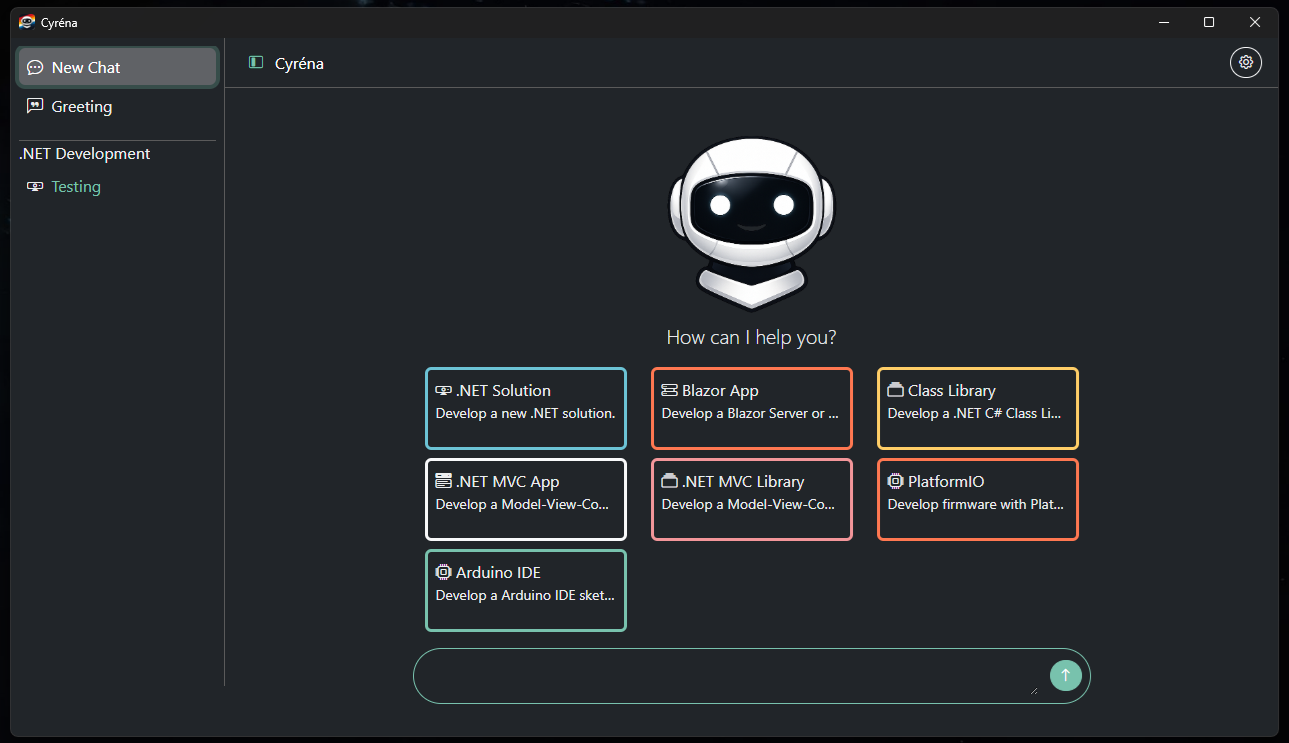
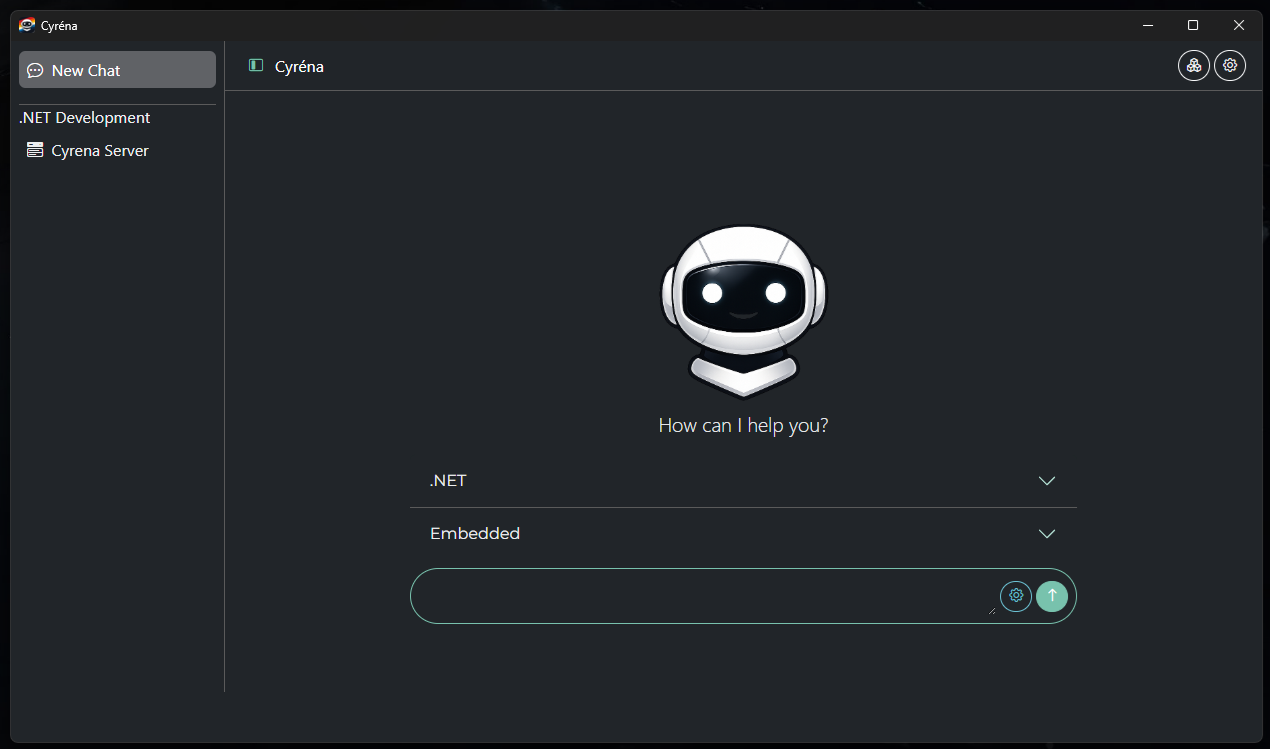
Updated readme

diff --git a/readme.md b/readme.md
@@ -1,6 +1,6 @@
 # Cyréna
 
-Cyréna is an experimental **offline-first engineering assistant** that runs *alongside your IDE*, not inside it.
+Cyréna is an **offline-first engineering assistant** that runs *alongside your IDE*, not inside it.
 
 It operates as a structured agent inside real projects and helps with:
 
@@ -12,26 +12,23 @@ It operates as a structured agent inside real projects and helps with:
 
 This project started as a personal experiment to build the assistant I wanted for my own workflow.
 
-It is evolving into something larger.
-
-⚠ **Please read this README in full before using Cyréna.**  
-It contains important safety notes.
+It has since become a core part of daily engineering — and is now evolving into something much larger.
 
 - 📸 [Screenshots](./docs/screenshots.md)
 - 🧠 [Architecture Overview](./docs/code_overview.md)
 - 🤝 [Contributing](./contributing.md)
-- 👉 [Getting Started Video](https://streamable.com/t4v75s)
+- 👉 [Getting Started Video](https://cyrena.dev/videos#getting_started)
 - 📸 [UI Overview](./docs/ui_overview.md)
 
 ---
 
 ## 🎬 Demo
 
-Here is Cyréna running a real prompt → build → repair loop:
+Here is Cyréna HUD running a real prompt → build → repair loop:
 
-👉 [Demo video](https://streamable.com/xet2ig)
+👉 [Demo video](https://cyrena.dev/videos#hud_working)
 
-This is not code generation —  
+This is not code generation —
 this is an engineering agent working inside a project.
 
 ---
@@ -53,24 +50,36 @@ The goal is predictable AI behavior inside real codebases.
 
 ---
 
+## 🧩 Extensions
+
+Cyréna is built on an **extension architecture**, making it a platform rather than a fixed tool.
+
+Extensions allow Cyréna to be tailored beyond software development — adapting to different domains, workflows, and use cases. If your workflow doesn't fit the defaults, you can build an extension that does.
+
+- **Developers** can build their own extensions to improve and personalise their workflow
+- **Non-developers** can benefit from extensions built for their domain
+- Extensions are first-class — the built-in domain support (see below) is itself implemented as extensions
+
+This is an open system. If you build something useful, contributions are welcome.
+
+---
+
 ## 🌍 Multi-Domain Support
 
-Cyréna is designed as a **platform**, not a single-language tool.
-
-Currently supported:
+Cyréna ships with built-in support for several development domains:
 
 - 📦 .NET
-	- C# Class Library
-	- Blazor App
-	- C# MVC App
-	- C# MVC Library *note*: It follows the structure of MVC App
+  - C# Class Library
+  - Blazor App
+  - C# MVC App
+  - C# MVC Library *(follows MVC App structure)*
 - 🔌 Arduino IDE firmware projects
 - 🔌 PlatformIO firmware projects
-	- Arduino & ESPIDF
+  - Arduino & ESPIDF
 
 Each domain has its own constraints and prompts, but shares the same core architecture.
 
-This proves the system is extensible.
+New domains can be added through extensions.
 
 ---
 
@@ -102,7 +111,7 @@ The agent cannot invent random folder layouts or escape the project boundary.
 
 This prevents entropy and keeps generated code maintainable.
 
-For Arduino projects, the flat sketch model is enforced.  
+For Arduino projects, the flat sketch model is enforced.
 For .NET projects & PlatformIO, structured folders are enforced.
 
 Different domains, same discipline.
@@ -120,13 +129,23 @@ Every action runs through a controlled loop:
 5. Implement minimal change
 6. Build / validate
 7. Repair if needed
-8. Summarize
+8. Summarise
 9. Persist knowledge
 
-Chat memory resets each iteration.  
+Chat memory resets each iteration.
 Structured knowledge survives.
 
 This avoids long-session drift.
+
+---
+
+## 🔄 Version Control & Rollbacks
+
+Cyréna maintains a rolling backup of up to 20 versions across sessions.
+
+This makes it easy to review and roll back to any of the last 20 states — not just the most recent one.
+
+Always review AI edits. Rollback is there when you need it.
 
 ---
 
@@ -151,7 +170,7 @@ Documentation is evolving — thank you for your patience.
 2. Open settings (gear icon)
 3. Add an Ollama connection
 4. Set model + tokens + context
-5. (Optional) Add Tavily API key
+5. *(Optional)* Add Tavily API key
 
 ### Setup OpenAI
 
@@ -201,46 +220,6 @@ Cyréna stands on the shoulders of great projects:
 
 ---
 
-# ⚠ Experimental Status
-
-Cyréna is under active development.
-
-It is an autonomous agent capable of modifying real files.
-
-Use version control.  
-Use backups.  
-Review all changes.
-
-This is not production-hardened software yet.
-
----
-
-## Known Risks
-
-- Incorrect overwrites
-- Imperfect repair loops
-- No full rollback yet
-- Intent may drift
-
-Always review AI edits.
-
----
-
-## Safety Systems In Progress
-
-- [X] Diff keeper
-- [X] Revert mechanism
-- [ ] Safe execution guardrails
-- [X] Hard command sandbox: *note* only supports **dotnet build** for now
-
-Until complete:
-
-👉 Treat Cyréna as experimental  
-👉 Expect mistakes  
-👉 Verify output  
-
----
-
 ## Philosophy
 
 Cyréna is being built toward:
@@ -251,16 +230,12 @@ Cyréna is being built toward:
 - engineering safety
 - long-term project memory
 
-You are seeing the system mid-evolution.
-
 ---
 
 ## Disclaimer
 
-Cyréna is experimental software.
+Cyréna modifies real files in real projects.
 
-It may introduce errors or data loss.
-
-You are responsible for backups and review.
+Use version control. Review all changes. You are responsible for your codebase.
 
 Provided as-is. Use at your own risk.

diff --git a/docs/ui_overview.md b/docs/ui_overview.md
@@ -4,13 +4,14 @@
 
 1. Navigate to launch window
 2. Settings
-3. General Chats, not for development
+3. Conversations/Chats
 4. Working Projects, categorised
 5. New chat text area
 	- Creates a new general chat not for development
 6. Create coding chats
+7. Install & Manage Extensions
 
-## Development
+## Development (.NET Solution)
 
 ![Working Window](../images/working_overview.png)
 
@@ -25,3 +26,5 @@
 	- Allows editing, exporting and importing and deleting
 5. Chat Export
 	- Prompts to save to text file
+
+*The Development Window changes depending on the project type you are working on with tailored toward the project/solution*

diff --git a/docs/screenshots.md b/docs/screenshots.md
@@ -2,7 +2,7 @@
 
 ## Launch Window
 
-![Launch Window](../images/launch.jpg)
+![Launch Window](../images/home.png)
 
 ## Working
 
